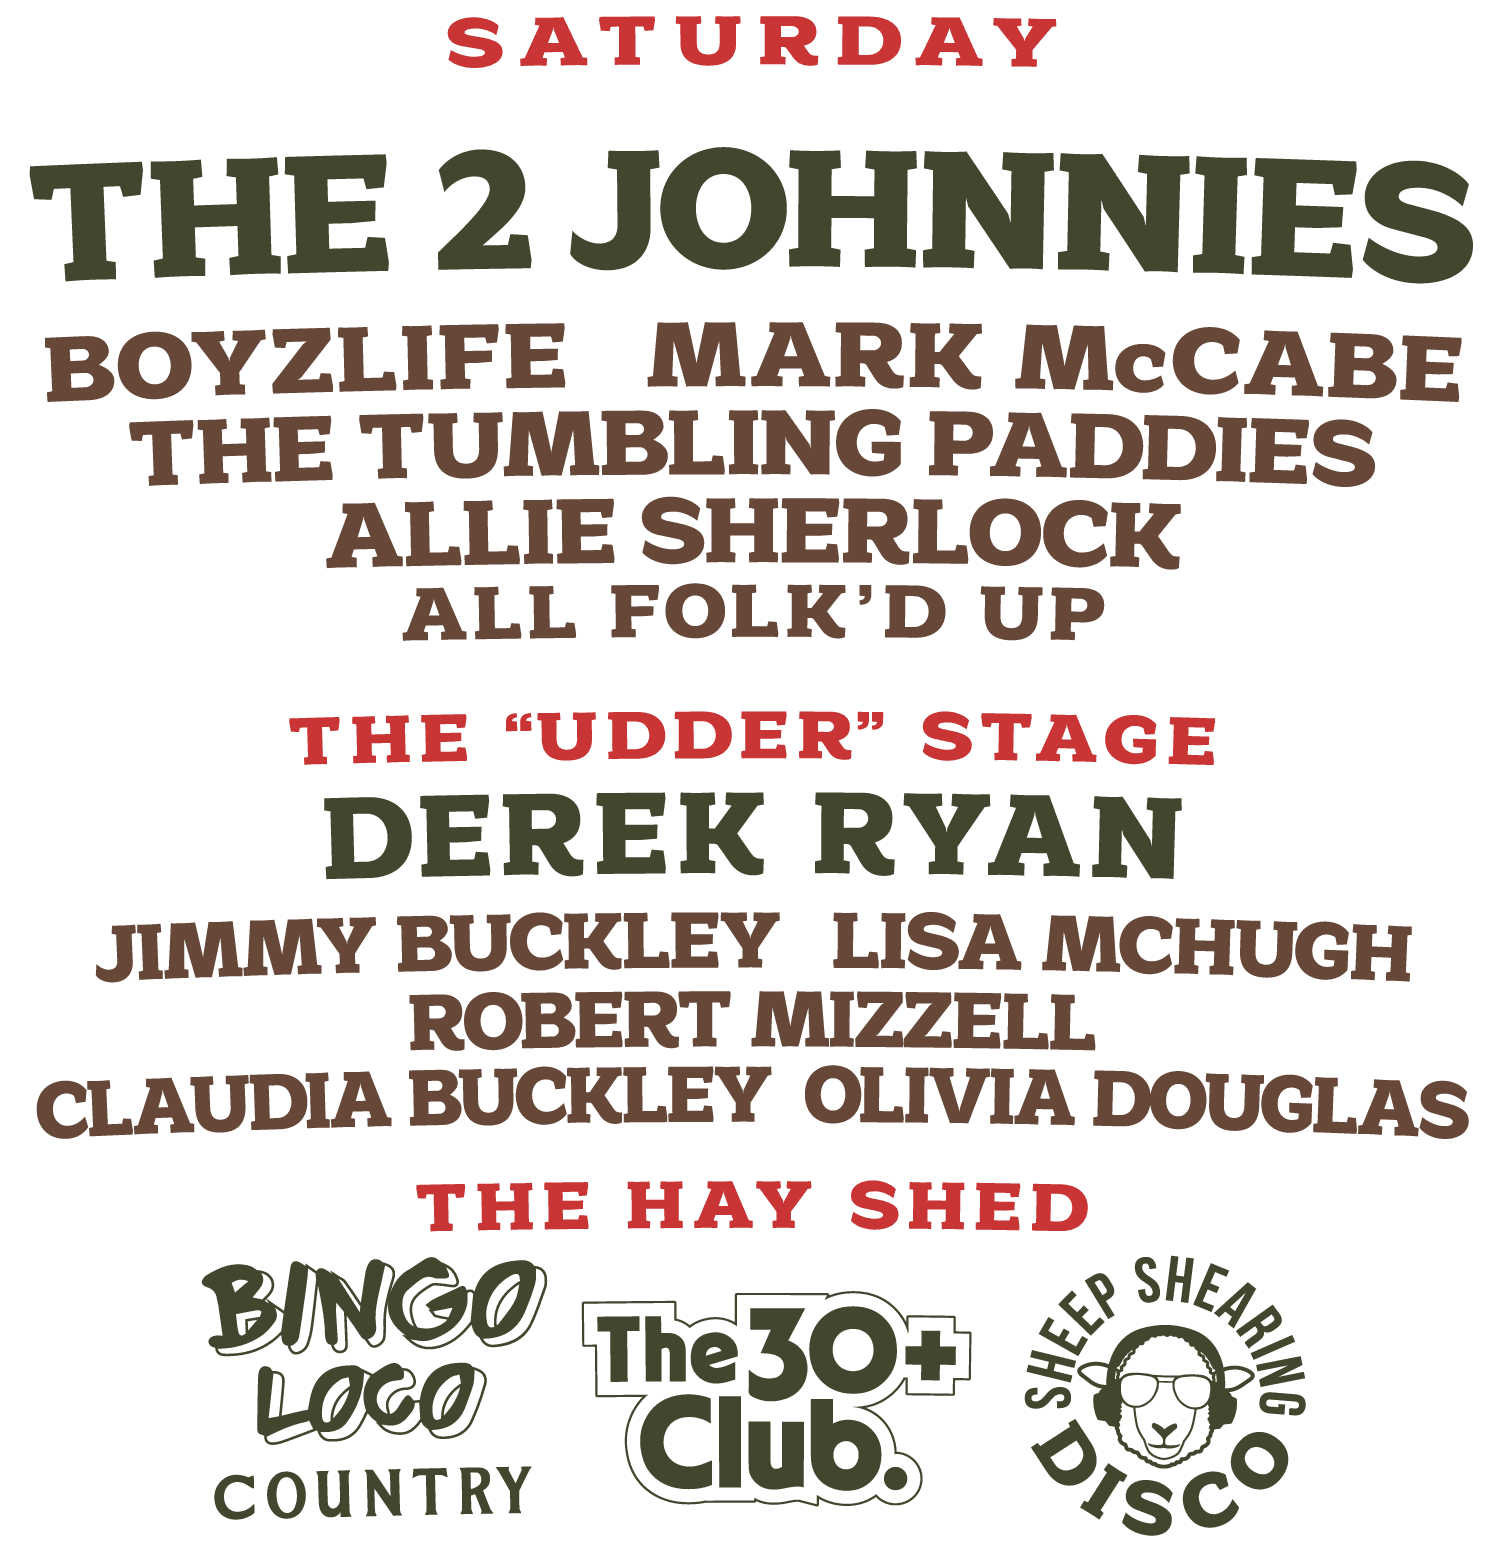
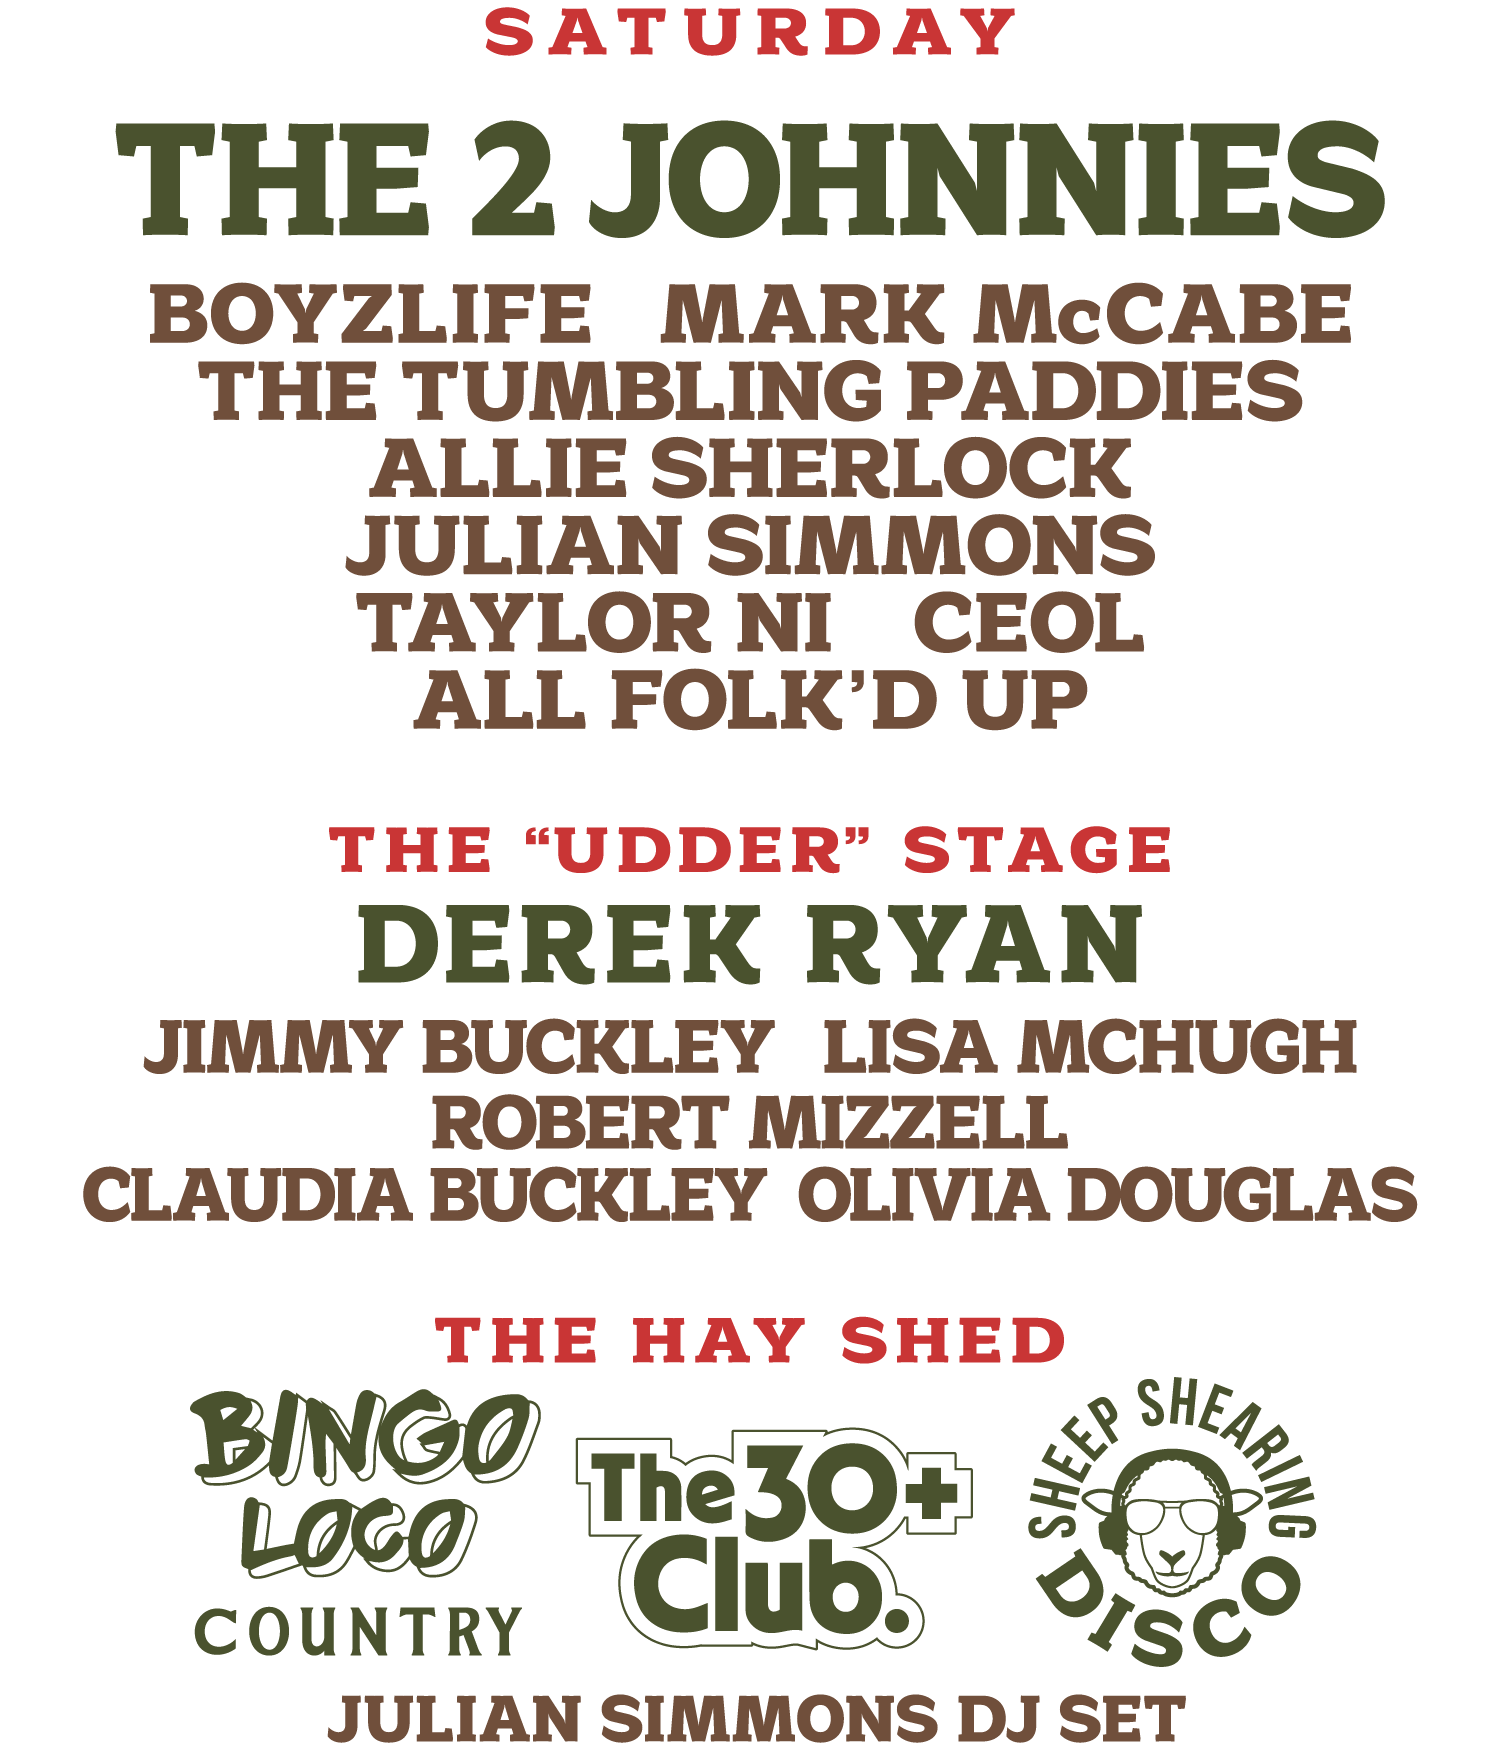
Artists updates

diff --git a/src/artists.ts b/src/artists.ts
@@ -1,167 +1,225 @@
 export const artists = [
-    {
-      name: "The 2 Johnnies",
-      image: "/images/artists/The2Johnnies.webp",
-      imageFallback: "/images/artists/The2Johnnies.jpg",
-      website: "https://www.the2johnnies.ie/",
-    },
-    {
-      name: "Kaiser Chiefs",
-      image: "/images/artists/KaiserChiefs.webp",
-      imageFallback: "/images/artists/KaiserChiefs.jpg",
-      website: "https://www.kaiserchiefs.com/",
-    },
-    {
-      name: "The Coronas",
-      image: "/images/artists/TheCoronas.webp",
-      imageFallback: "/images/artists/TheCoronas.jpg",
-      website: "https://thecoronas.net/",
-    },
-    {
-      name: "Derek Ryan",
-      image: "/images/artists/DerekRyan.webp",
-      imageFallback: "/images/artists/DerekRyan.jpg",
-      website: "https://derekryanmusic.com/",
-    },
-    {
-      name: "Nathan Carter",
-      image: "/images/artists/NathanCarter.webp",
-      imageFallback: "/images/artists/NathanCarter.jpg",
-      website: "https://www.nathancartermusic.com/",
-    },
-    {
-      name: "Boyzlife",
-      image: "/images/artists/Boyzlife.webp",
-      imageFallback: "/images/artists/Boyzlife.png",
-      website: "https://www.facebook.com/BoyzlifeTour",
-    },
-    {
-      name: "Mark McCabe",
-      image: "/images/artists/MarkMcCabe.webp",
-      imageFallback: "/images/artists/MarkMcCabe.jpg",
-      website: "https://www.markmccabe.ie/",
-    },
-    {
-      name: "B*Witched",
-      image: "/images/artists/BWitched.webp",
-      imageFallback: "/images/artists/BWitched.png",
-      website: "https://bwitchedofficial.com/",
-    },
-    {
-      name: "The Tumbling Paddies",
-      image: "/images/artists/TumblingPaddies.webp",
-      imageFallback: "/images/artists/TumblingPaddies.jpg",
-      website: "https://thetumblingpaddiesofficial.com/",
-    },
-    {
-      name: "The Whistlin Donkeys",
-      image: "/images/artists/TheWhistlinDonkeys.webp",
-      imageFallback: "/images/artists/TheWhistlinDonkeys.jpg",
-      website: "https://www.facebook.com/thewhistlindonkeys/?locale=en_GB",
-    },
-    {
-      name: "All Folk'd Up",
-      image: "/images/artists/AllFolk_dUp.webp",
-      imageFallback: "/images/artists/AllFolk_dUp.jpg",
-      website: "https://www.allfolkdup.ie/",
-    },
-    {
-      name: "Luke Combs UK",
-      image: "/images/artists/LukeCombsUK.webp",
-      imageFallback: "/images/artists/LukeCombsUK.jpg",
-      website: "https://lukecombsuk.com/",
-    },
-    {
-      name: "Allie Sherlock",
-      image: "/images/artists/AllieSherlock.webp",
-      imageFallback: "/images/artists/AllieSherlock.jpeg",
-      website: "https://www.alliesherlock.com/",
-    },
-    {
-      name: "Clodagh Lawlor",
-      image: "/images/artists/ClodaghLawlor.webp",
-      imageFallback: "/images/artists/ClodaghLawlor.jpg",
-      website: "https://www.clodaghlawlormusic.com/",
-    },
-    {
-      name: "David James",
-      image: "/images/artists/DavidJames.webp",
-      imageFallback: "/images/artists/DavidJames.jpg",
-      website: "https://davidjamesmusic.co.uk/",
-    },
-    {
-      name: "Mike Denver",
-      image: "/images/artists/MikeDenver.webp",
-      imageFallback: "/images/artists/MikeDenver.jpg",
-      website: "https://www.mikedenvermusic.com/",
-    },
-    {
-      name: "Olivia Douglas",
-      image: "/images/artists/OliviaDouglas.webp",
-      imageFallback: "/images/artists/OliviaDouglas.png",
-      website: "https://www.oliviadouglasmusic.com/",
-    },
-    {
-      name: "Robert Mizzell",
-      image: "/images/artists/RobertMizzell.webp",
-      imageFallback: "/images/artists/RobertMizzell.jpg",
-      website: "https://robertmizzell.ie/",
-    },
-    {
-      name: "Claudia Buckley",
-      image: "/images/artists/ClaudiaBuckley.webp",
-      imageFallback: "/images/artists/ClaudiaBuckley.jpg",
-      website: "https://www.youtube.com/channel/UCU8qlz5-2MeehDCnlDheGqA/about",
-    },
-    {
-      name: "Jimmy Buckley",
-      image: "/images/artists/JimmyBuckley.webp",
-      imageFallback: "/images/artists/JimmyBuckley.jpg",
-      website: "https://www.jimmy-buckley.com/",
-    },
-    {
-      name: "Johnny Brady",
-      image: "/images/artists/JohnnyBrady.webp",
-      imageFallback: "/images/artists/JohnnyBrady.jpg",
-      website: "https://johnny-brady.com/",
-    },
-    {
-      name: "Folk That Rock",
-      image: "/images/artists/FolkThatRock.webp",
-      imageFallback: "/images/artists/FolkThatRock.jpg",
-    },
-    {
-      name: "Shrek Rave",
-      image: "/images/artists/ShrekTheRave.webp",
-      imageFallback: "/images/artists/ShrekTheRave.jpg",
-      website: "https://www.shrekraveofficial.com/",
-    },
-    {
-      name: "The 30+ Club",
-      image: "/images/artists/The30Club.webp",
-      imageFallback: "/images/artists/The30Club.jpg",
-      website: "https://the30plus.club/",
-    },
-    {
-      name: "Sheep Shearing Disco",
-      image: "/images/artists/SheepShearingDisco.webp",
-      imageFallback: "/images/artists/SheepShearingDisco.jpg",
-    },
-    {
-      name: "Bangerthon",
-      image: "/images/artists/Bangerthon.webp",
-      imageFallback: "/images/artists/Bangerthon.jpg",
-    },
-    {
-      name: "Bingo Loco",
-      image: "/images/artists/BingoLoco.webp",
-      imageFallback: "/images/artists/BingoLoco.jpg",
-      website: "https://www.bingoloco.com/",
-    },
-    {
-      name: "And Many More...",
-      image: "/images/bg4.jpg",
-      imageFallback: "/images/bg4.jpg",
-    },
-  ];
+  {
+    name: "The 2 Johnnies",
+    image: "/images/artists/The2Johnnies.webp",
+    imageFallback: "/images/artists/The2Johnnies.jpg",
+    website: "https://www.the2johnnies.ie/",
+  },
+  {
+    name: "Kaiser Chiefs",
+    image: "/images/artists/KaiserChiefs.webp",
+    imageFallback: "/images/artists/KaiserChiefs.jpg",
+    website: "https://www.kaiserchiefs.com/",
+  },
+  {
+    name: "The Coronas",
+    image: "/images/artists/TheCoronas.webp",
+    imageFallback: "/images/artists/TheCoronas.jpg",
+    website: "https://thecoronas.net/",
+  },
+  {
+    name: "Derek Ryan",
+    image: "/images/artists/DerekRyan.webp",
+    imageFallback: "/images/artists/DerekRyan.jpg",
+    website: "https://derekryanmusic.com/",
+  },
+  {
+    name: "Nathan Carter",
+    image: "/images/artists/NathanCarter.webp",
+    imageFallback: "/images/artists/NathanCarter.jpg",
+    website: "https://www.nathancartermusic.com/",
+  },
+  {
+    name: "Boyzlife",
+    image: "/images/artists/Boyzlife.webp",
+    imageFallback: "/images/artists/Boyzlife.png",
+    website: "https://www.facebook.com/BoyzlifeTour",
+  },
+  {
+    name: "Mark McCabe",
+    image: "/images/artists/MarkMcCabe.webp",
+    imageFallback: "/images/artists/MarkMcCabe.jpg",
+    website: "https://www.markmccabe.ie/",
+  },
+  {
+    name: "B*Witched",
+    image: "/images/artists/BWitched.webp",
+    imageFallback: "/images/artists/BWitched.png",
+    website: "https://bwitchedofficial.com/",
+  },
+  {
+    name: "The Tumbling Paddies",
+    image: "/images/artists/TumblingPaddies.webp",
+    imageFallback: "/images/artists/TumblingPaddies.jpg",
+    website: "https://thetumblingpaddiesofficial.com/",
+  },
+  {
+    name: "The Whistlin Donkeys",
+    image: "/images/artists/TheWhistlinDonkeys.webp",
+    imageFallback: "/images/artists/TheWhistlinDonkeys.jpg",
+    website: "https://www.facebook.com/thewhistlindonkeys/?locale=en_GB",
+  },
+  {
+    name: "Hugo Duncan",
+    image: "/images/artists/HugoDuncan.webp",
+    imageFallback: "/images/artists/HugoDuncan.png",
+    website: "https://en.wikipedia.org/wiki/Hugo_Duncan",
+  },
+  {
+    name: "Colin Graham",
+    image: "/images/artists/ColinGraham.webp",
+    imageFallback: "/images/artists/ColinGraham.jpeg",
+    website: "https://www.facebook.com/cmgmusic123/",
+  },
+  {
+    name: "Roll With It",
+    image: "/images/artists/RollWithIt.webp",
+    imageFallback: "/images/artists/RollWithIt.jpg",
+    website: "https://rollwithitband.wixsite.com/home",
+  },
+  {
+    name: "Julian Simmons",
+    image: "/images/artists/JulianSimmons.webp",
+    imageFallback: "/images/artists/JulianSimmons.jpg",
+    website: "https://www.instagram.com/juliansimmonsofficial/?hl=en",
+  },
+  {
+    name: "Taylor NI",
+    image: "/images/artists/TaylorNI.webp",
+    imageFallback: "/images/artists/TaylorNI.jpeg",
+    website: "https://www.facebook.com/events/111-ballymena-road-bt414-antrim-united-kingdom/taylor-ni-a-tribute-to-taylor-swift/1138776761144898/",
+  },
+  {
+    name: "Ceol",
+    image: "/images/artists/Ceol.webp",
+    imageFallback: "/images/artists/Ceol.jpg",
+    website: "https://www.ceolband.com/",
+  },
+  {
+    name: "All Folk'd Up",
+    image: "/images/artists/AllFolk_dUp.webp",
+    imageFallback: "/images/artists/AllFolk_dUp.jpg",
+    website: "https://www.allfolkdup.ie/",
+  },
+  {
+    name: "Luke Combs UK",
+    image: "/images/artists/LukeCombsUK.webp",
+    imageFallback: "/images/artists/LukeCombsUK.jpg",
+    website: "https://lukecombsuk.com/",
+  },
+  {
+    name: "Allie Sherlock",
+    image: "/images/artists/AllieSherlock.webp",
+    imageFallback: "/images/artists/AllieSherlock.jpeg",
+    website: "https://www.alliesherlock.com/",
+  },
+  {
+    name: "Clodagh Lawlor",
+    image: "/images/artists/ClodaghLawlor.webp",
+    imageFallback: "/images/artists/ClodaghLawlor.jpg",
+    website: "https://www.clodaghlawlormusic.com/",
+  },
+  {
+    name: "David James",
+    image: "/images/artists/DavidJames.webp",
+    imageFallback: "/images/artists/DavidJames.jpg",
+    website: "https://davidjamesmusic.co.uk/",
+  },
+  {
+    name: "Mike Denver",
+    image: "/images/artists/MikeDenver.webp",
+    imageFallback: "/images/artists/MikeDenver.jpg",
+    website: "https://www.mikedenvermusic.com/",
+  },
+  {
+    name: "Olivia Douglas",
+    image: "/images/artists/OliviaDouglas.webp",
+    imageFallback: "/images/artists/OliviaDouglas.png",
+    website: "https://www.oliviadouglasmusic.com/",
+  },
+  {
+    name: "Robert Mizzell",
+    image: "/images/artists/RobertMizzell.webp",
+    imageFallback: "/images/artists/RobertMizzell.jpg",
+    website: "https://robertmizzell.ie/",
+  },
+  {
+    name: "Claudia Buckley",
+    image: "/images/artists/ClaudiaBuckley.webp",
+    imageFallback: "/images/artists/ClaudiaBuckley.jpg",
+    website: "https://www.youtube.com/channel/UCU8qlz5-2MeehDCnlDheGqA/about",
+  },
+  {
+    name: "Jimmy Buckley",
+    image: "/images/artists/JimmyBuckley.webp",
+    imageFallback: "/images/artists/JimmyBuckley.jpg",
+    website: "https://www.jimmy-buckley.com/",
+  },
+  {
+    name: "Johnny Brady",
+    image: "/images/artists/JohnnyBrady.webp",
+    imageFallback: "/images/artists/JohnnyBrady.jpg",
+    website: "https://johnny-brady.com/",
+  },
+  {
+    name: "Folk That Rock",
+    image: "/images/artists/FolkThatRock.webp",
+    imageFallback: "/images/artists/FolkThatRock.jpg",
+    website: "",
+  },
+  {
+    name: "Stuart Banford",
+    image: "/images/artists/StuartBanford.webp",
+    imageFallback: "/images/artists/StuartBanford.jpeg",
+    website: "https://www.facebook.com/stuart.banford/?locale=en_GB",
+  },
+  {
+    name: "Garth Brooks Experience",
+    image: "/images/artists/GarthBrooksExperience.webp",
+    imageFallback: "/images/artists/GarthBrooksExperience.jpg",
+    website: "https://www.garthbrookstribute.co.uk/",
+  },
+  {
+    name: "Chris Armstrong",
+    image: "/images/artists/ChrisArmstrong.webp",
+    imageFallback: "/images/artists/ChrisArmstrong.jpg",
+    website: "https://djchrisarmstrong.com/",
+  },
+  {
+    name: "Shrek Rave",
+    image: "/images/artists/ShrekTheRave.webp",
+    imageFallback: "/images/artists/ShrekTheRave.jpg",
+    website: "https://www.shrekraveofficial.com/",
+  },
+  {
+    name: "The 30+ Club",
+    image: "/images/artists/The30Club.webp",
+    imageFallback: "/images/artists/The30Club.jpg",
+    website: "https://the30plus.club/",
+  },
+  {
+    name: "Sheep Shearing Disco",
+    image: "/images/artists/SheepShearingDisco.webp",
+    imageFallback: "/images/artists/SheepShearingDisco.jpg",
+    website: "",
+  },
+  {
+    name: "Bangerthon",
+    image: "/images/artists/Bangerthon.webp",
+    imageFallback: "/images/artists/Bangerthon.jpg",
+    website: "",
+  },
+  {
+    name: "Bingo Loco",
+    image: "/images/artists/BingoLoco.webp",
+    imageFallback: "/images/artists/BingoLoco.jpg",
+    website: "https://www.bingoloco.com/",
+  },
+  {
+    name: "And Many More...",
+    image: "/images/bg4.jpg",
+    imageFallback: "/images/bg4.jpg",
+    website: "",
+  },
+];
   
